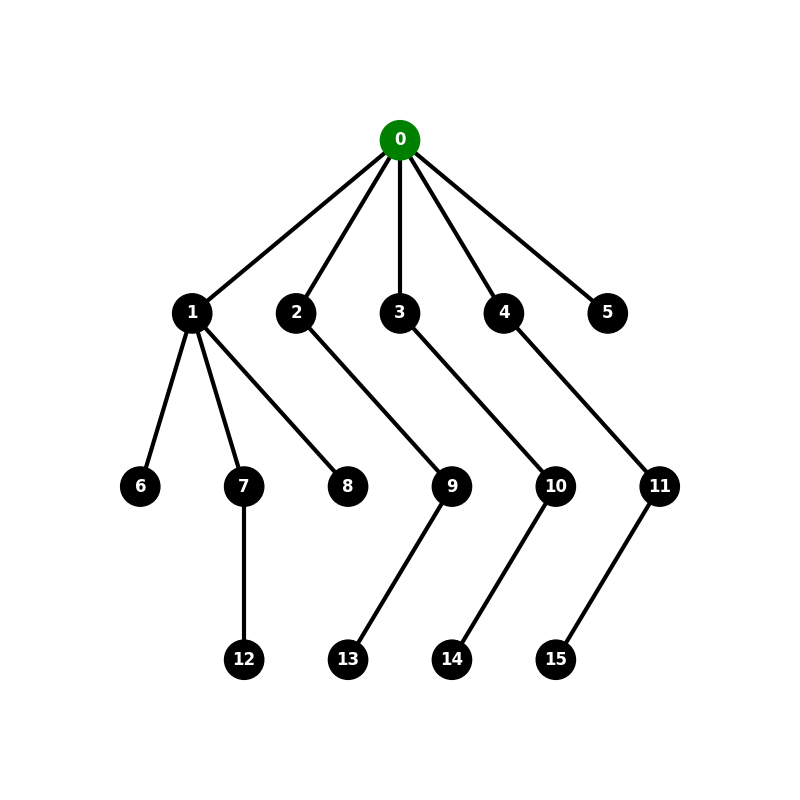
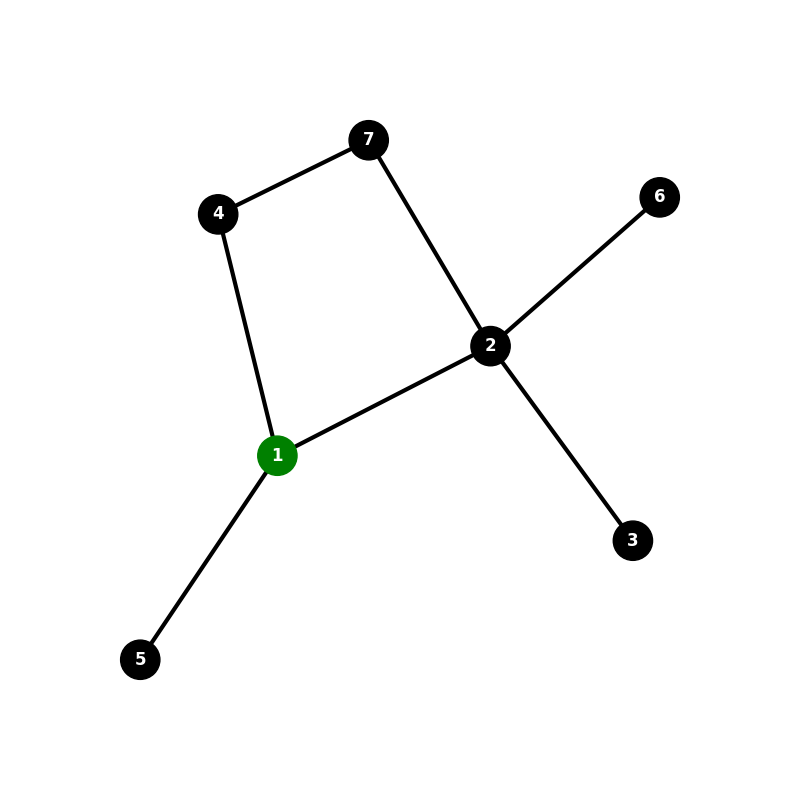
Update: modify function dfs to generate a tree instead of just returning the node as the output

diff --git a/main.py b/main.py
@@ -2,36 +2,59 @@ import matplotlib.pyplot as plt
 import networkx as nx
 from collections import deque
 
+
 graph = {
-    0: [1, 2, 3, 4, 5],
-    1: [6, 7, 8],
-    2: [9],
-    3: [10],
-    4: [11],
-    5: [],
-    6: [],
-    7: [12],
-    8: [],
-    9: [13],
-    10: [14],
-    11: [15],
-    12: [],
-    13: [],
-    14: [],
-    15: [],
+    1: [2, 4, 5],
+    2: [1, 3, 6, 7],
+    3: [2],
+    4: [1, 7],
+    5: [1],
+    6: [2],
+    7: [2, 4],
 }
 
-
-reference = {
-    0: [1, 2, 3],
-    1: [4, 5],
-    2: [6],
-    3: [7],
-    4: [],
-    5: [],
-    6: [],
-    7: [],
+graph_17nodes_root0 = {
+    0: [1, 2, 4, 7, 14],
+    1: [0, 2, 4, 5],
+    2: [0, 1, 6],
+    3: [6, 17],
+    4: [0, 1, 5],
+    5: [1, 4, 8, 9],
+    6: [2, 3, 9, 10],
+    7: [0, 8, 14],
+    8: [5, 7, 11],
+    9: [5, 6, 12, 13],
+    10: [6, 13, 17],
+    11: [8, 12, 14, 15],
+    12: [9, 11, 15, 16],
+    13: [9, 10, 17],
+    14: [0, 7, 11, 15],
+    15: [11, 12, 14, 16],
+    16: [12, 15],
+    17: [3, 10, 13],
 }
+
+graph_17nodes_root8 = {
+    0: [4, 14],
+    1: [2, 5],
+    2: [1, 5],
+    3: [6],
+    4: [0, 7, 8],
+    5: [1, 2, 9],
+    6: [3, 9, 10],
+    7: [4, 8, 11],
+    8: [4, 7, 9, 12],
+    9: [5, 6, 8, 12, 13],
+    10: [6, 13],
+    11: [7],
+    12: [8, 9, 16],
+    13: [9, 10, 16, 17],
+    14: [0],
+    15: [16],
+    16: [12, 13, 15, 17],
+    17: [13, 16]
+}
+
 
 # plt.show()
 
@@ -82,13 +105,13 @@ def generate_graph(graph, root, image_name): # root is the node that starts the 
         for neighbor in graph[node]:
             G.add_edge(node, neighbor)
 
-    pos = tree_layout(G, root)
+    #pos = tree_layout(G, root)
 
     node_colors = ['green' if node == root else 'black' for node in G.nodes()]
 
     nx.draw(
         G,
-        pos,
+        #pos,
         with_labels=True,
         node_color=node_colors,
         node_size=800,
@@ -101,6 +124,15 @@ def generate_graph(graph, root, image_name): # root is the node that starts the 
     plt.savefig(f'images/{image_name}.png')
     plt.clf() # for the image not to be overlap by the last one, when calling the function more then one time
 
+def get_child_not_visited(graph, node, visited):
+
+    if node not in graph:
+        return None
+    
+    for neighbor in graph[node]:
+        if neighbor not in visited:
+            return neighbor
+    return None
 
 def bfs(graph, root):
     visited = set()
@@ -125,67 +157,59 @@ def bfs(graph, root):
 
 def dfs(graph, root):
     visited = set()
-    stack = [] # no need to use deque, since list already takes O(1) time to append and pop the element in last position
-
+    tree = {root: []} # tree = {node: [neighbor1, neighbor2]}
+    stack = [root] # stack = [(node, parent)]
+                   # no need to use deque, since list already takes O(1) time to append and pop the element in last position
+                           
     visited.add(root)
-    stack.append(root)
 
-    print('DFS:')
+    # i = 0
 
     while stack:
-        node = stack.pop()
-        print(node, end=' ')
 
-        for neighbor in reversed(graph[node]): # LIFO
-            if neighbor not in visited:
-                visited.add(neighbor)
-                stack.append(neighbor)
-    
-    print('\n\n')
+        node = stack[-1] # get the last element in the stack without removing it
 
-generate_graph(graph, 0, 'graph')
-# bfs(graph, 0)
-# dfs(graph, 0)
+        print(f"Current node: {node}")
+        print(f"Stack: {stack}\n")
 
-generate_graph(reference, 0, 'reference')
-bfs(reference, 0)
-dfs(reference, 0)
+        # check next child of the last node in the stack
+        child_not_visited = get_child_not_visited(graph, node, visited)
+
+        if child_not_visited is not None:
+            visited.add(child_not_visited)
+
+            # assure that the child is in the tree
+            if child_not_visited not in tree:
+                tree[child_not_visited] = []
+            
+            # add the child to the tree as a child of the last node in the stack
+            tree[node].append(child_not_visited) 
+
+            stack.append(child_not_visited)
+
+            # image_name = f'dfs_tree_{node}_{i}'
+            # generate_graph(tree, root, image_name)
+            # i += 1
+        else:
+            stack.pop() # remove the last element in the stack
+
+    return tree
+
+print('GRAPH:')
+generate_graph(graph, 1, 'graph')
+dfs_tree = dfs(graph, 1)
+generate_graph(dfs_tree, 1, 'dfs_tree')
+print(f'\n{"-"*20}\n')
+
+print('GRAPH 17 NODES ROOT 0:')
+generate_graph(graph_17nodes_root0, 0, 'graph_17nodes_root0')
+dfs_tree_17nodes_root0 = dfs(graph_17nodes_root0, 0)
+generate_graph(dfs_tree_17nodes_root0, 0, 'dfs_tree_17nodes_root0')
+print(f'\n{"-"*20}\n')
+
+print('GRAPH 17 NODES ROOT 8:')
+generate_graph(graph_17nodes_root8, 8, 'graph_17nodes_root8')
+dfs_tree_17nodes_root8 = dfs(graph_17nodes_root8, 8)
+generate_graph(dfs_tree_17nodes_root8, 8, 'dfs_tree_17nodes_root8')
 
 plt.close()
-
-# ----- graph without layout -----
-# G = nx.Graph()
-# G.add_node('0')
-# G.add_node('1')
-# G.add_node('2')
-# G.add_node('3')
-# G.add_node('4')
-# G.add_node('5')
-# G.add_node('6')
-# G.add_node('7')
-# G.add_node('8')
-# G.add_node('10')
-# G.add_node('11')
-# G.add_edge('0','1')
-# G.add_edge('0','2')
-# G.add_edge('0','3')
-# G.add_edge('0','8')
-# G.add_edge('0','10')
-# G.add_edge('1','4')
-# G.add_edge('1','5')
-# G.add_edge('2','6')
-# G.add_edge('3','7')
-# G.add_edge('4','11')
-
-# nx.draw(
-#     G,
-#     with_labels=True,
-#     node_color='black',
-#     node_size=2000,
-#     font_color='white',
-#     font_weight='bold', 
-#     width=3
-# )
-
-# plt.margins(0.2)
-# plt.savefig('images/grafico.png')